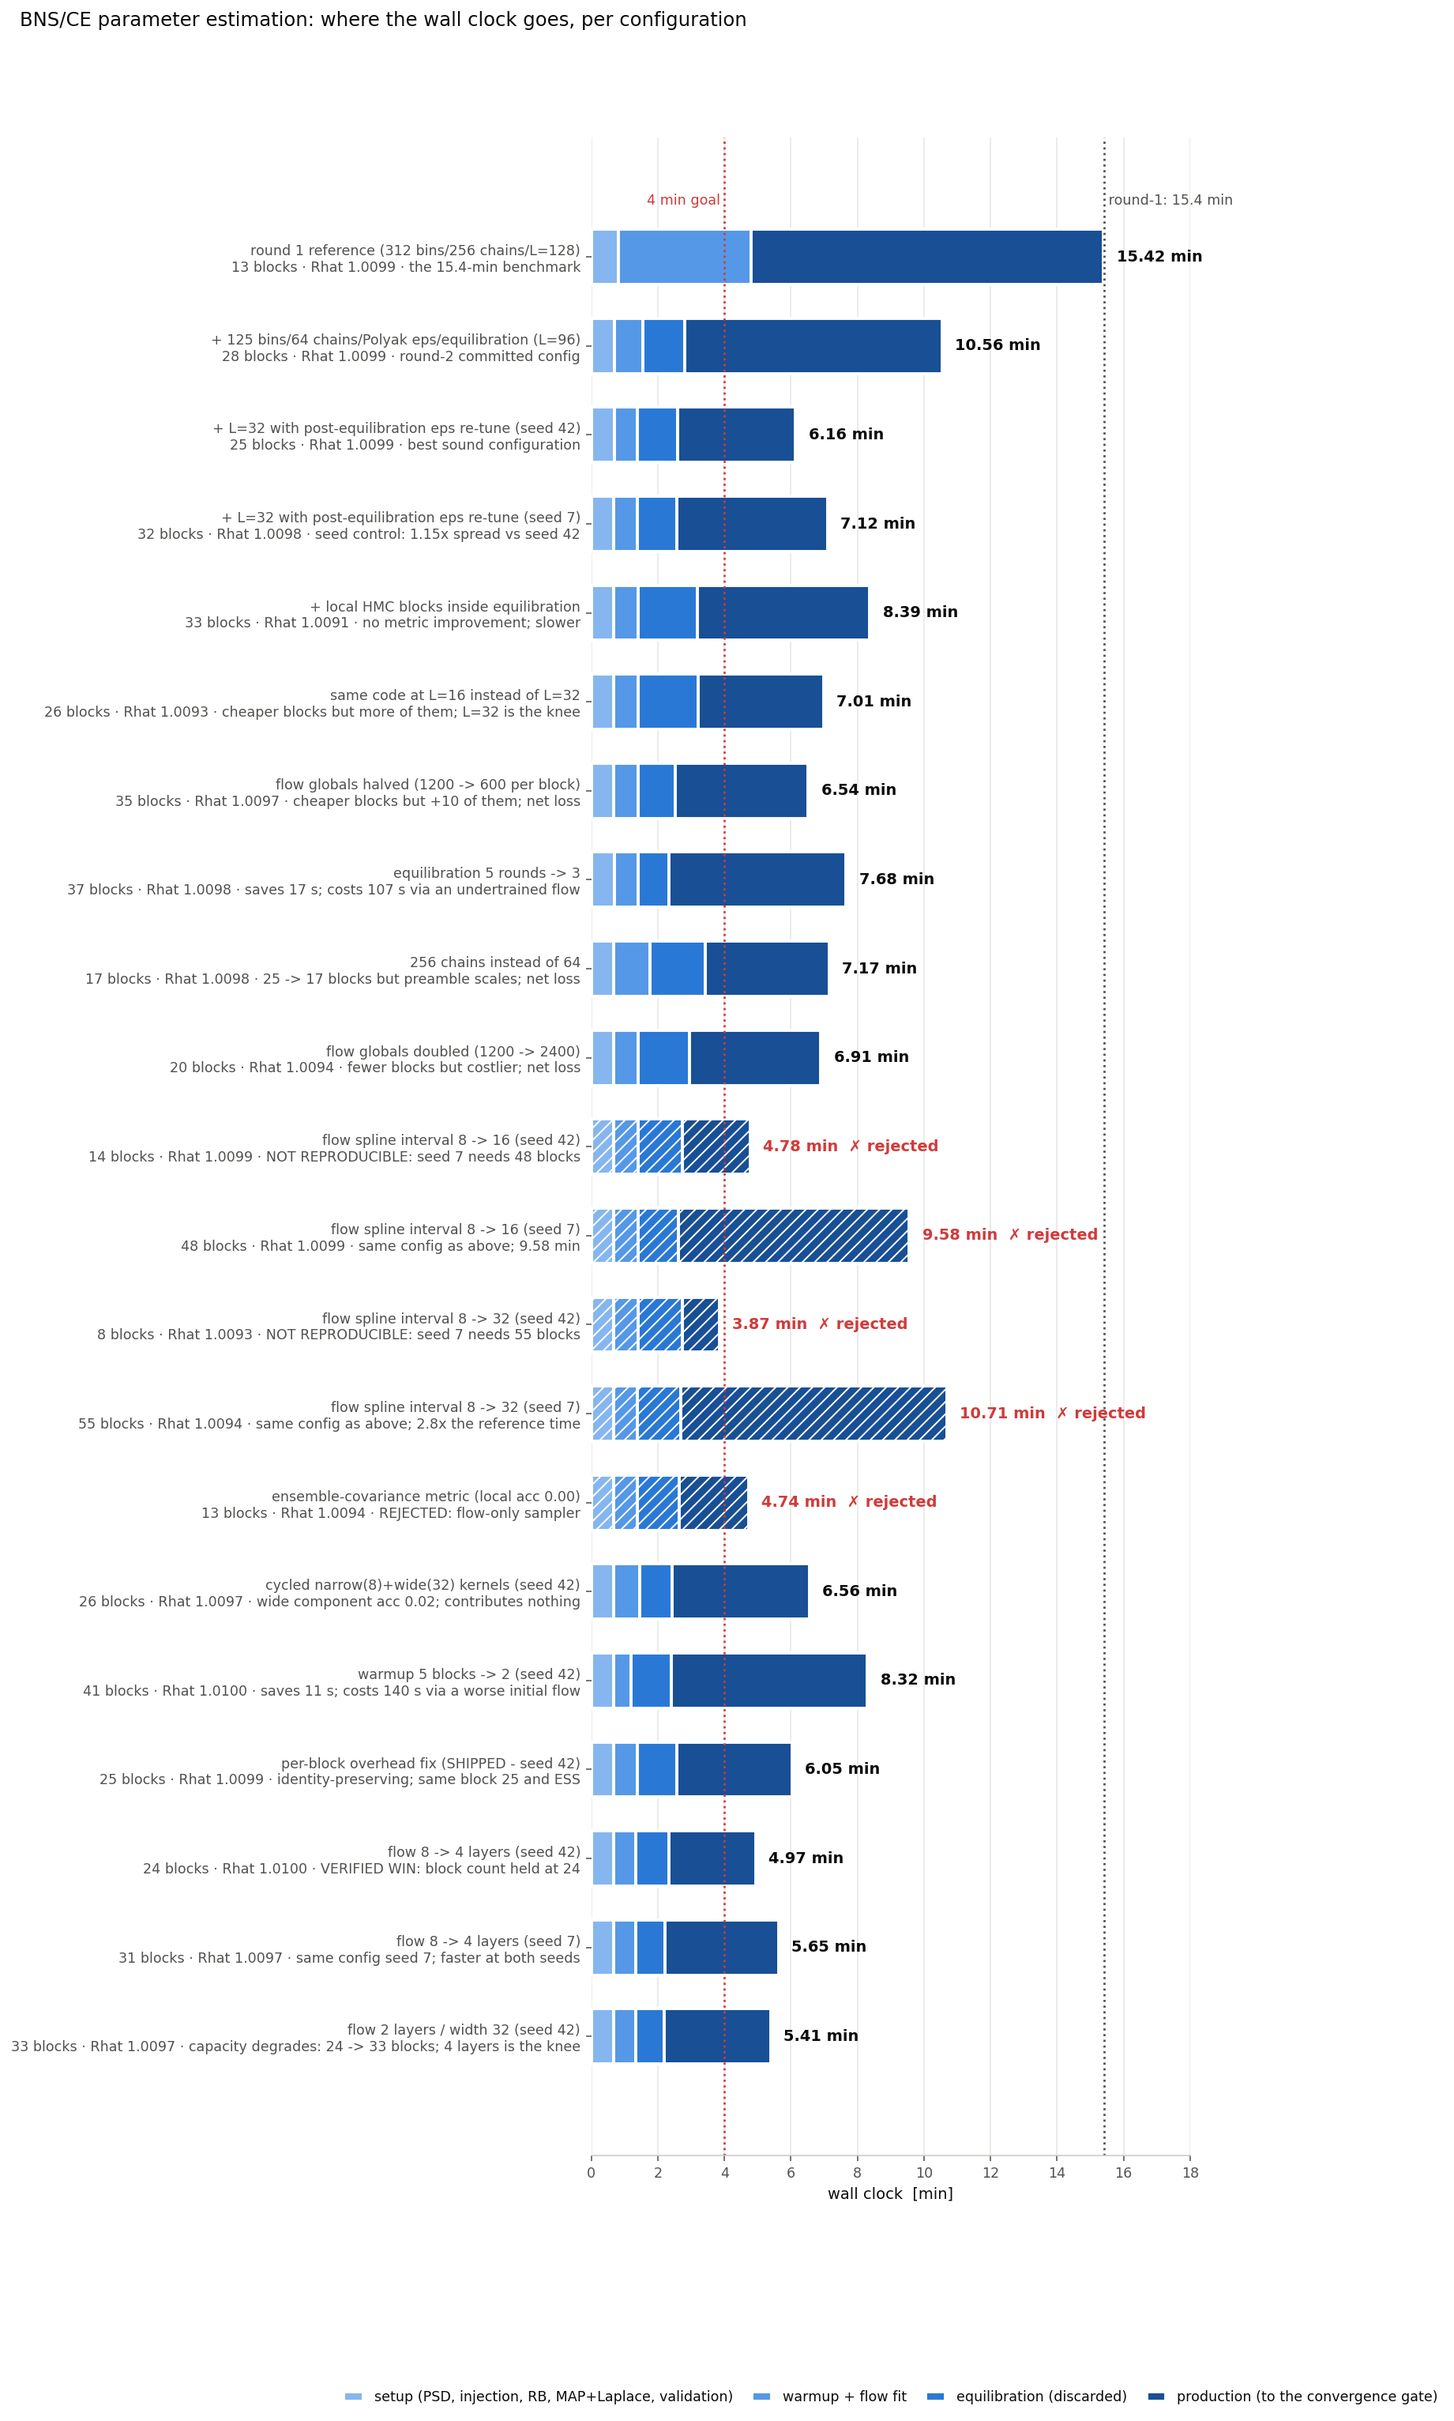
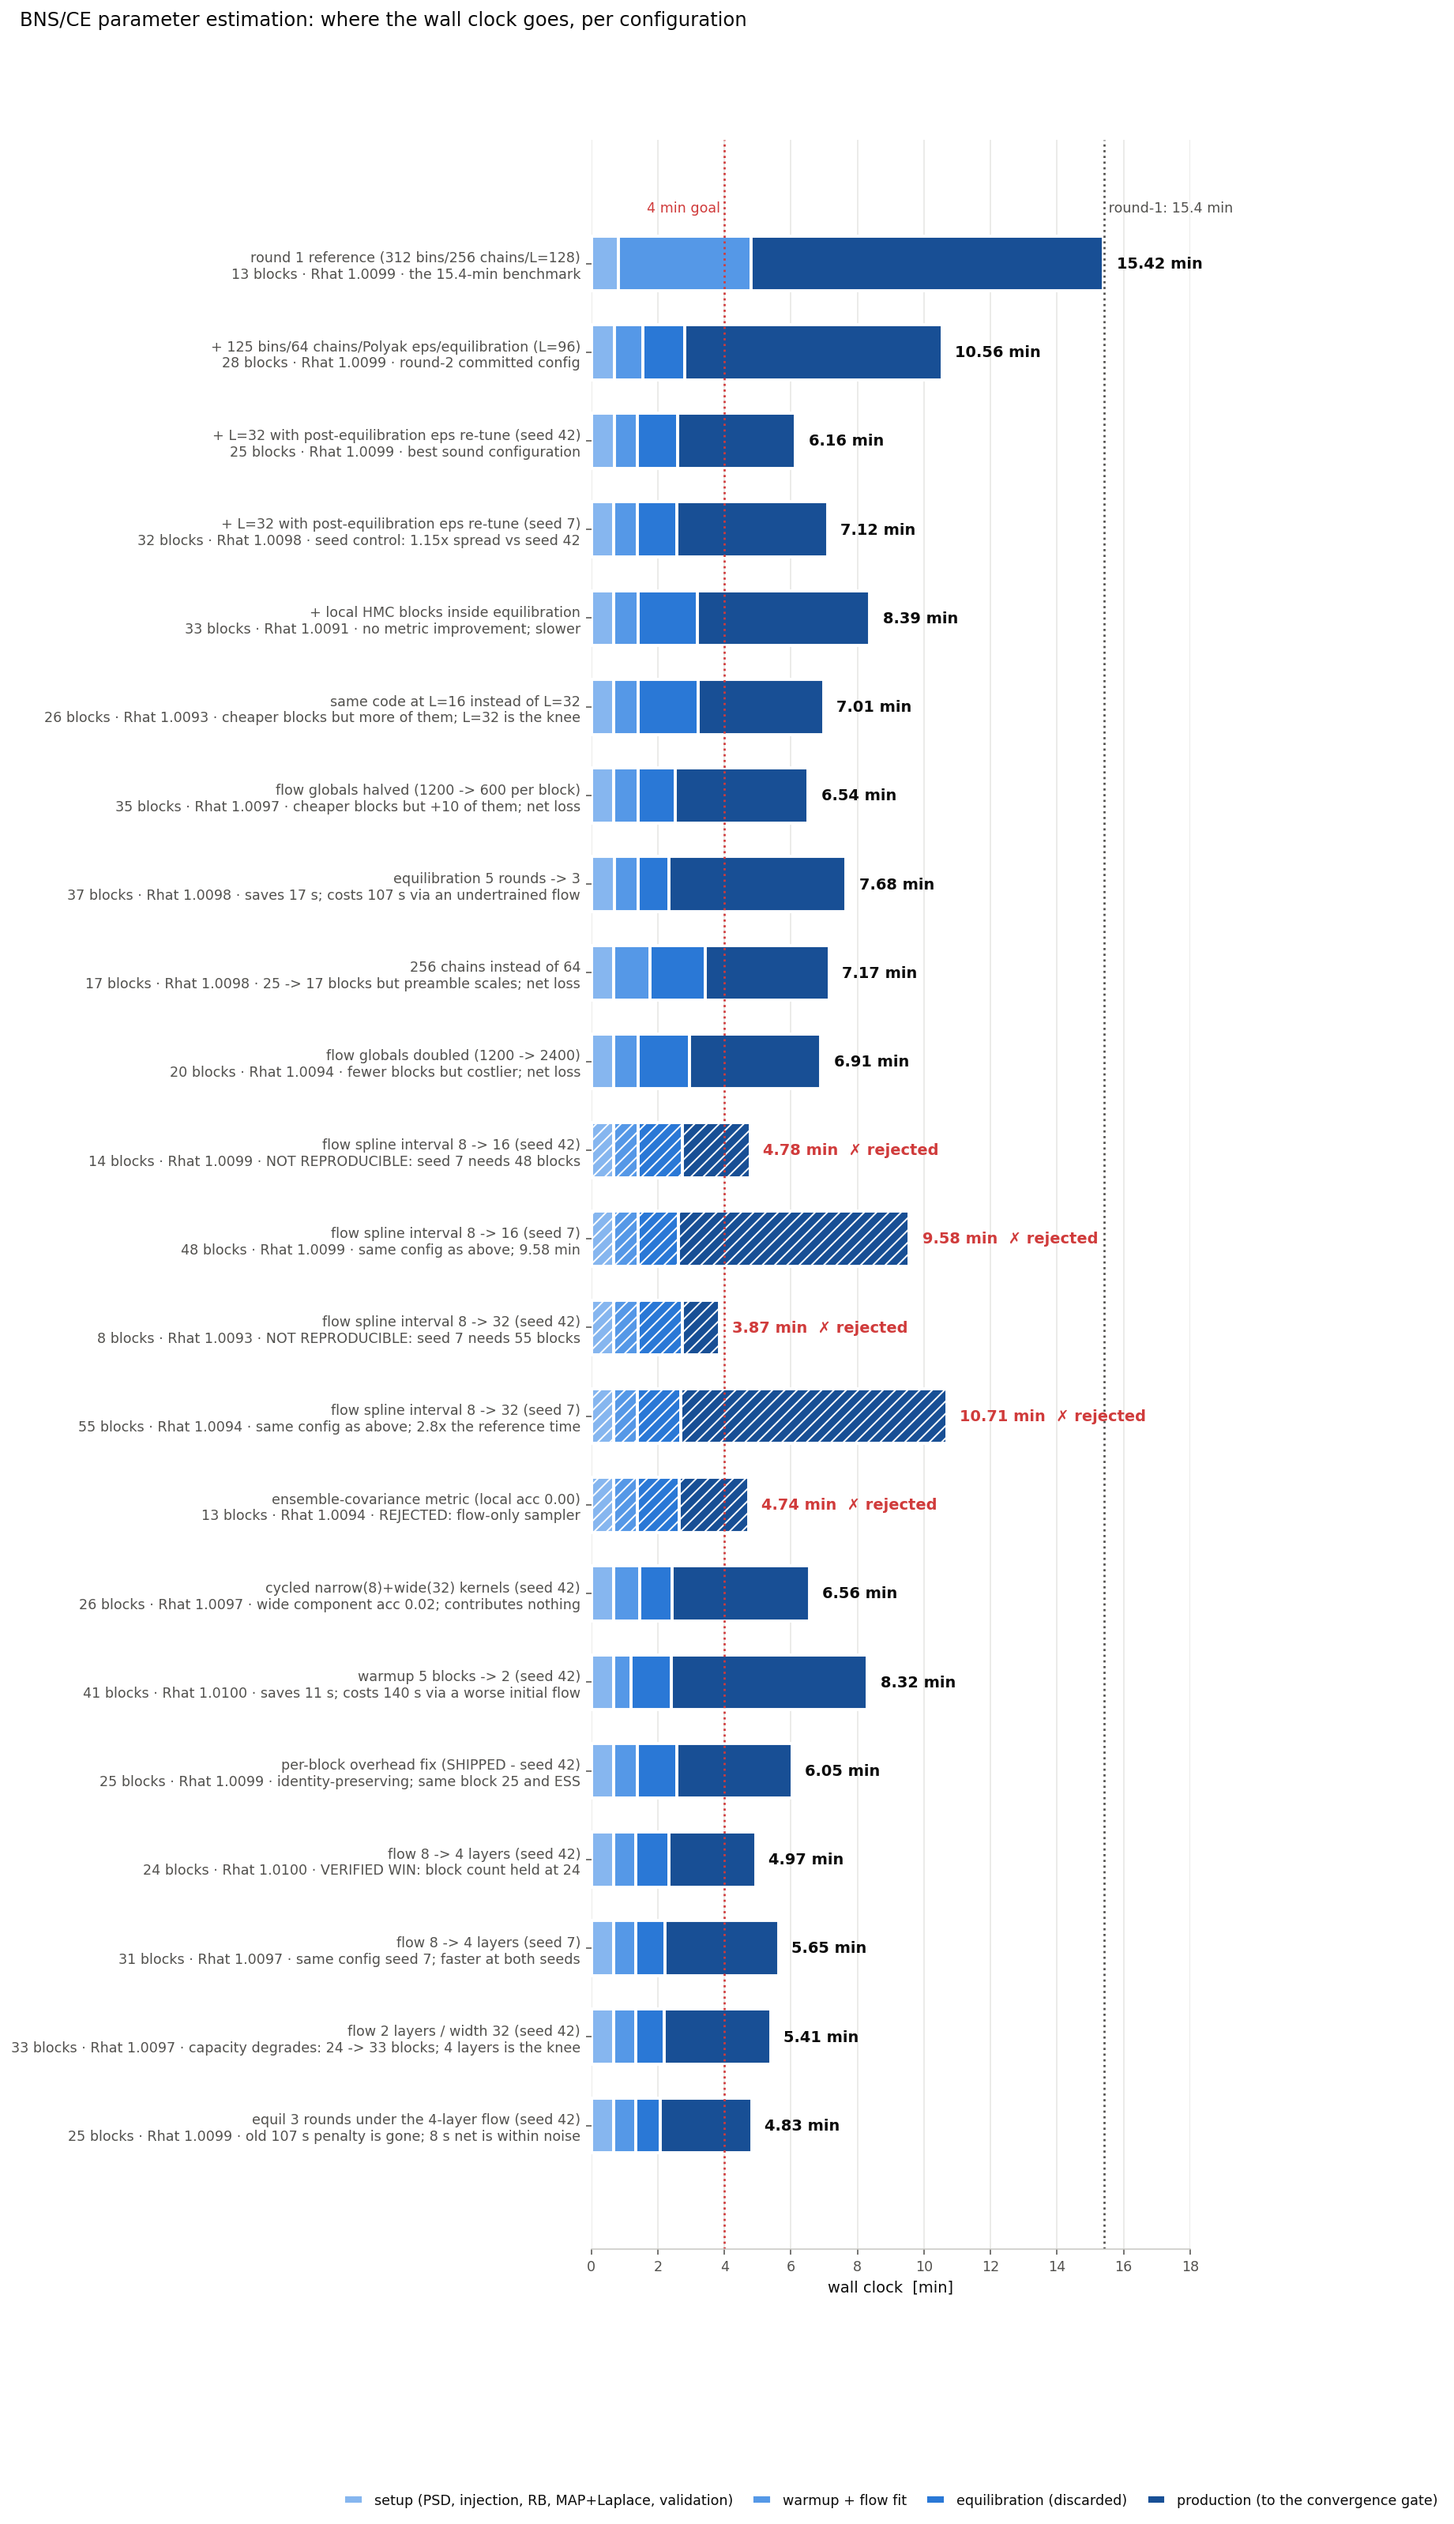
bns-ce: retract the equilibration-rounds negative (measured under the old flow)
The "5 rounds -> 3 saves 17 s and costs 107 s" result was taken under the
8-layer flow. Re-run under the 4-layer flow, the failure mechanism is gone:
block-1 global acceptance is 0.60 against 0.38 before. A smaller flow trains
adequately in 3 rounds and the 107 s penalty does not reproduce.

  5 rounds: equil 59.2 s, production 157.2 s (24 blocks), total 297.9 s
  3 rounds: equil 44.0 s, production 165.1 s (25 blocks), total 289.7 s

The net is 8 s -- 2.7%, well inside the ~15% resolution limit for single-seed
comparisons -- because the extra production block eats most of the equilibration
saving. So the old negative is RETRACTED (a 100+ s effect, clearly resolvable),
while "3 rounds beats 5" is NOT resolved by this data. Default stays at 5, the
value verified at two seeds.

Third stale negative overturned by re-measuring under changed conditions, after
"short trajectories starve the flow" and the flow-capacity assumption. The
recurring error is treating a measurement as a property of the problem when it
was a property of the configuration it was taken in.

diff --git a/docs/bns_ce_pe_benchmark.md b/docs/bns_ce_pe_benchmark.md
@@ -599,6 +599,31 @@ its best case with a 2.75× spread. **4 layers is the knee:** at 2 layers/width 
 capacity genuinely degrades and the block count jumps 24 → 33, so the
 cheaper-block/more-blocks trade returns on the far side.
 
+#### One stale negative retracted, one non-result
+
+The equilibration measurement above (5 rounds → 3 costs 107 s) was taken under the
+**8-layer** flow, so it was re-run under the 4-layer one. The old failure mechanism is
+gone: block-1 global acceptance is now **0.60**, against 0.38 before. A smaller flow
+trains adequately in 3 rounds, and the 107 s penalty does not reproduce.
+
+| | 5 rounds | 3 rounds |
+|---|---|---|
+| equilibration | 59.2 s | 44.0 s |
+| production | 157.2 s (24 blocks) | 165.1 s (25 blocks) |
+| total | 297.9 s | 289.7 s |
+
+But the *net* is 8 s — 2.7 %, well inside the ~15 % resolution limit for single-seed
+comparisons established above — because the extra production block eats most of the
+equilibration saving. So: the old negative is **retracted** (a 100+ s effect, clearly
+resolvable), while "3 rounds is better than 5" is **not resolved** by this data. The
+default stays at 5, which is the value verified at two seeds.
+
+This is the third stale negative overturned by re-measuring under changed conditions
+(after "short trajectories starve the flow", and the flow-capacity assumption itself).
+The recurring error is treating a measurement as a property of the *problem* when it
+was a property of the *configuration it was taken in* — worth stating because it is
+the single most productive check applied in this whole exercise.
+
 ### Why 4 minutes was not reached
 
 Unlike the retracted argument above, this is an accounting of measured levers rather
